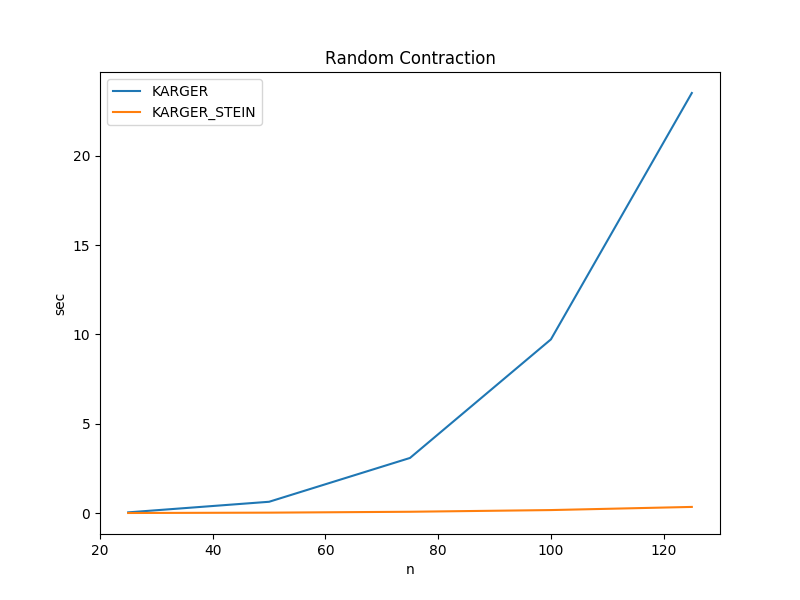
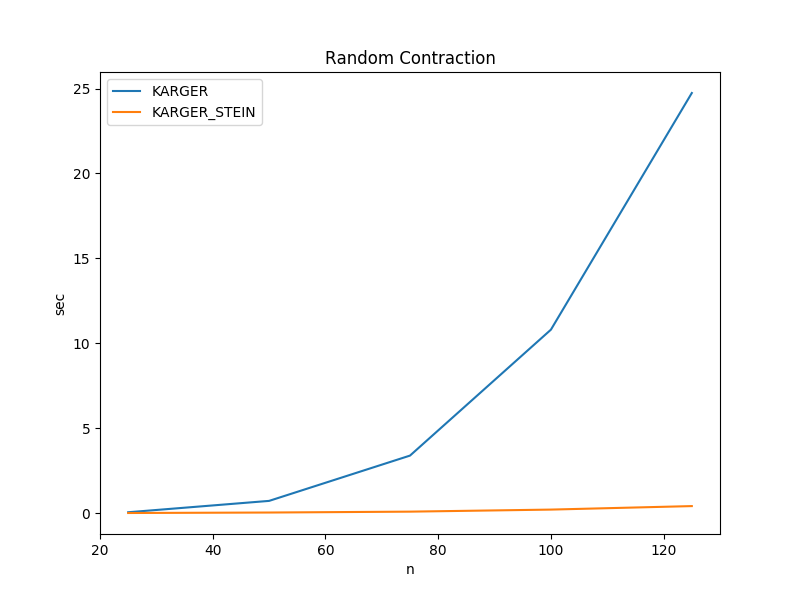
update run times

diff --git a/random_contraction/README.md b/random_contraction/README.md
@@ -96,8 +96,8 @@ recreate the data on your machine, navigate to the c directory and execute the
 
 |ALGORITHM| n=25,m=250 |n=50,m=500 |n=75,m=750 |n=100,m=1000 |n=125,m=1250 |
 --|--|--|--|--|--|
-|KARGER |0.044031 sec|0.636622 sec|3.088025 sec|9.720699 sec|23.503915 sec|
-|KARGER_STEIN |0.008457 sec|0.027829 sec|0.077786 sec|0.172399 sec|0.348342 sec|
+|KARGER |0.053415 sec|0.722489 sec|3.389049 sec|10.802166 sec|24.735355 sec|
+|KARGER_STEIN |0.009551 sec|0.037323 sec|0.089343 sec|0.210117 sec|0.416360 sec|
 
 Key Takeaways:
 - A probabilistic algorithm can be run multiple times to achieve a higher
